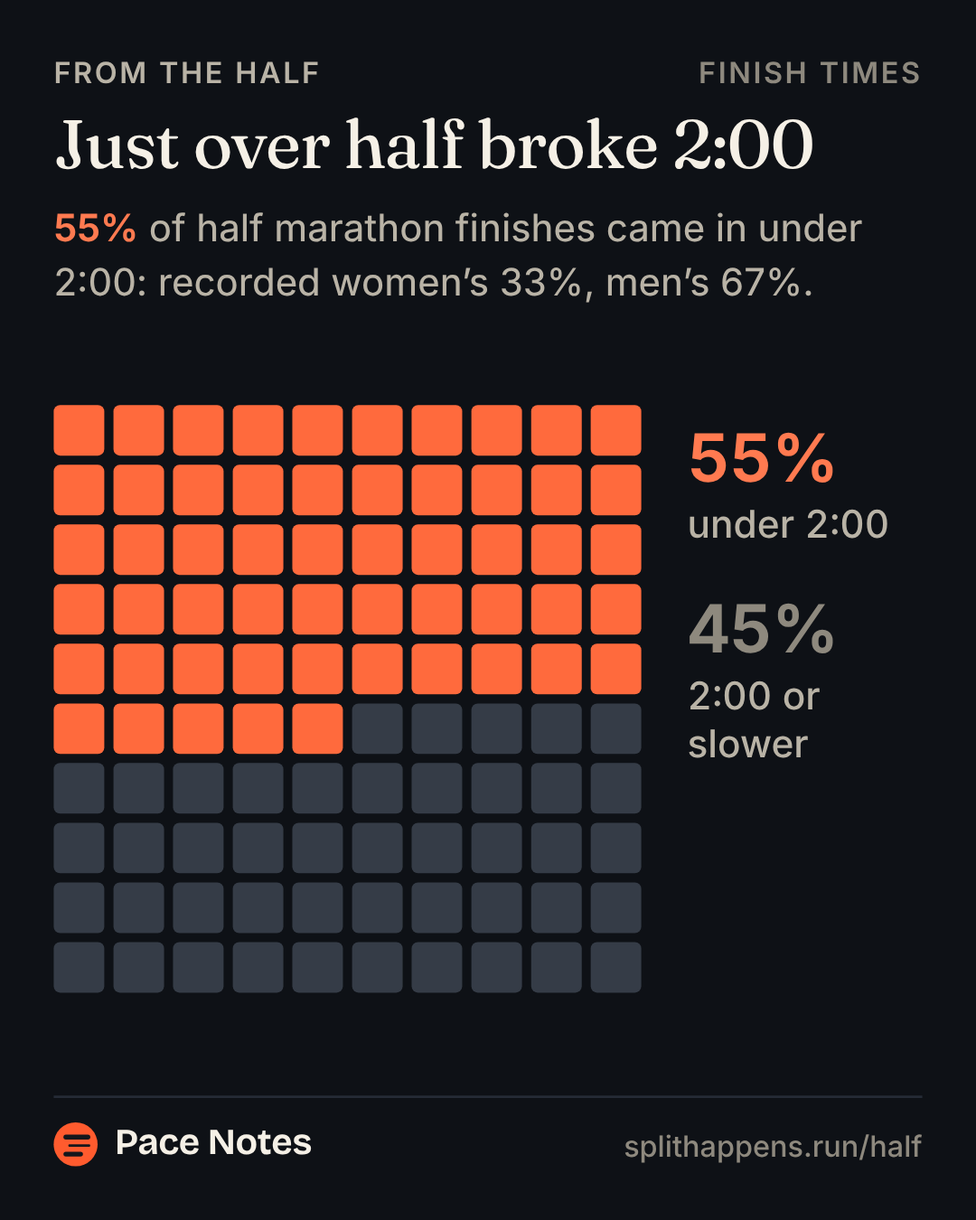
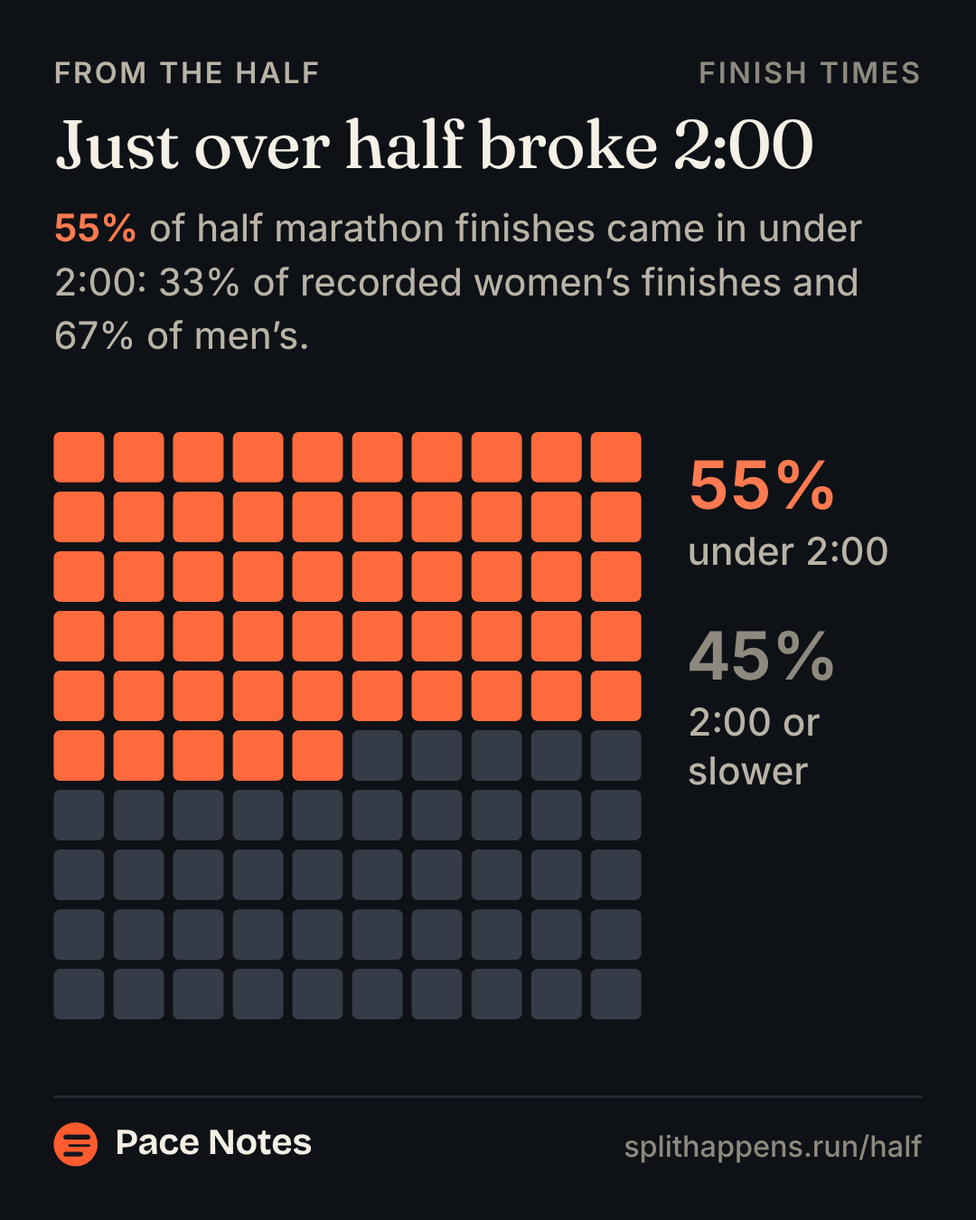
Half follow-ups: shares named by their denominator, a story that orients, a guess that keeps its answer
Post-merge review of the half pages (round 1). No guard, floor or withdrawn reading changes.

- Card half-under-2 and the half pace chart's data panel name each sex's
  denominator ("33% of recorded women's finishes and 67% of men's"): after
  the colon, "recorded women's 33%, men's 67%" read as a split of the
  finishes under 2:00 (women's share of those is 22%). Card re-stamped.
- docs/HALF_MARATHON.md: dated repository state (merged as a2c6e507, #85)
  and deployed state (live; /version.json, smoke 212/212, seo live 21/21),
  the old text kept as history.
- Story hero dek, built from set B's window: "Each half here is paired with
  the marathon 3 to 16 weeks after it, for records linked by name. Find
  your half below." It states no reading, so it stands under the plain H1.
- Story guess: while the guess is up, its H2 is half.sexes's neutral line
  and the reading follows the guess's answer in the reveal; a figure-free
  line links /half.
- Needle deks name the step ("Slide from 1:15 to 3:00, 5 minutes at a
  time."; "Slide from a 1:10 half to a 2:45 half, 5 minutes at a time.").
- /half round times: the dek says why 2:00 (the most extra finishes before
  any round time) and that 1:30 stood a little taller, 1.24x.
- /half same city, under its fallback: no Typical row and no "typically"
  in the dumbbell's label (the two medians the dek had withdrawn).
- /half night card kicker "Chapter 11 · The next one"; the predictor's
[…]

diff --git a/lib/nuggets/half.ts b/lib/nuggets/half.ts
@@ -241,12 +241,22 @@ export function halfSexesGuessFrom(linked: HalfLinked): Nugget {
 export type HalfDeks = {
   /** /half reading's unit line: "the median half finish; recorded women’s 2:08, men’s 1:52". */
   fieldUnit: string;
-  /** /half beat 1: "Recorded women’s: 9%. Men’s: 35%. Slide to any time from 1:15 to 3:00." */
+  /**
+   * /half beat 1's dek, how to use the needle: "Slide from 1:15 to 3:00, 5 minutes at a time." The needle stops on the
+   * published marks only, so the dek names their step ("Slide to any time" promised a 1:52 the needle cannot reach;
+   * review, October 30, 2026).
+   */
+  slide: string;
+  /** /half beat 1 with the shares: "Recorded women’s: 9%. Men’s: 35%. Slide from 1:15 to 3:00, 5 minutes at a time." */
   under: string;
   /**
-   * /half beat 2: the minute before 2:00 in finishes against the curve ("16,949 finishes came in at 1:59, where the
-   * smooth curve expects about 14,000."), then, while its guard holds, the other marks ("The minute before 1:30 held
-   * 1.2× too; before 1:45, 2:15 and 2:30, about 1.05×."). Null without a 2:00 mark.
+   * /half beat 2: the minute before 2:00 in finishes against the curve, and, while it holds the most finishes over the
+   * curve of the five, that it does, so the beat says why 2:00 is its subject ("16,949 finishes came in at 1:59, where
+   * the smooth curve expects about 14,000: the most extra finishes before any round time."); then, while its
+   * guard holds, the other marks. Where 1:30's column stands taller than 2:00's the dek says so with both decimals, as
+   * the columns print them ("The minute before 1:30 stood a little taller against its curve, 1.24×; …"), else "held
+   * 1.2× too" (review, October 30, 2026: since the stamp correction 1:30 is the taller column, unexplained). Null
+   * without a 2:00 mark.
    */
   crowd: string | null;
   /** The marks beat 2's dek names besides 2:00, in minutes ([90] while its guard holds): the chart draws them a step up. */
@@ -266,10 +276,18 @@ export type HalfDeks = {
   cities: string | null;
   /**
    * Story beat 1, the spec's dek: the typical marathon after the flagship's half, then how to use the needle ("The
-   * typical one took 3:54. Slide to any half from 1:10 to 2:45."): the sentence a runner of that half wants first. Under
-   * the plain heading (half.range fails) "the typical one" names no half, so the dek is how to use the needle alone.
+   * typical one took 3:54. Slide from a 1:10 half to a 2:45 half, 5 minutes at a time."): the sentence a runner of that
+   * half wants first. Under the plain heading (half.range fails) "the typical one" names no half, so the dek is how to
+   * use the needle alone. The needle stops on the 5-minute windows only, so the dek names the step.
    */
   range: string | null;
+  /**
+   * The story's hero dek, under any H1: what the page pairs and for whom, then where to look, as a sentence that states
+   * no reading ("Each half here is paired with the marathon 3 to 16 weeks after it, for records linked by name. Find
+   * your half below."). The weeks are set B's window. Under the plain H1 the old verbless dek, written to qualify the
+   * reading H1, told a first-time reader nothing (review, October 30, 2026).
+   */
+  hero: string;
   /**
    * The story's reading, under the ruler: the minutes over double 15 minutes quicker than the flagship's half, then the
    * span of the 5-minute windows from 15 minutes slower on ("Fewer minutes over double after a quicker half: +17 after
@@ -311,17 +329,34 @@ export function halfDeksFrom(field: HalfField, women: HalfWomen, linked: HalfLin
   const after = slower.map(minutesOver);
   const spanLo = Math.min(...after), spanHi = Math.max(...after);
   const level = !!qb && after.length >= 3 && after.every((x) => Math.abs(x - minutesOver(qb)) <= 4) && !!qa && minutesOver(qa) < spanLo;
-  const slide = `Slide to any half from ${clock(all[0].h)} to ${clock(all[all.length - 1].h)}.`;
+  // The needle's stops: the story's 5-minute windows (the scrubber's points), /half's published marks.
+  const stops = all.filter((x) => x.h % 300 === 0);
+  const slide = stops.length ? `Slide from a ${clock(stops[0].h)} half to a ${clock(stops[stops.length - 1].h)} half, 5 minutes at a time.` : '';
+  const step = field.under.length > 1 ? (field.under[1].s - field.under[0].s) / 60 : NaN;
+  const fieldSlide = `Slide from ${clock(first)} to ${clock(last)}, ${step} minutes at a time.`;
   const pairs = side.map((h) => [at('F', h), at('M', h)] as const);
   const lower = pairs.length === 2 && pairs.every(([pf, pm]) => !!pf && !!pm && pf.sus < pm.sus);
+  // Beat 2: whether 2:00 holds the most finishes over the curve of the five marks, and whether 1:30's column, as the
+  // chart prints it, stands taller than 2:00's.
+  const excess = (m: HalfField['marks'][number]) => m.minute_before - m.expected_minute_before;
+  const most = !!two && field.marks.every((m) => m === two || excess(m) < excess(two));
+  const taller = !!two && !!marks[90] && Number(marks[90].ratio.toFixed(2)) > Number(two.ratio.toFixed(2));
+  const [fromWeeks, toWeeks] = linked.set.window_days.map((d) => d / 7);
+  const span = Number.isInteger(fromWeeks) && Number.isInteger(toWeeks) ? `${fromWeeks} to ${toWeeks} weeks` : `${linked.set.window_days[0]} to ${linked.set.window_days[1]} days`;
   return {
     fieldUnit: `the median half finish; recorded women’s ${clock(field.quantiles.F.p50)}, men’s ${clock(field.quantiles.M.p50)}`,
-    under: `Recorded women’s: ${pct(u.F)}. Men’s: ${pct(u.M)}. Slide to any time from ${clock(first)} to ${clock(last)}.`,
-    crowd: two ? `${count(two.minute_before)} finishes came in at ${clock(two.minutes * 60 - 60)}, where the smooth curve expects about ${count(Math.round(two.expected_minute_before / 100) * 100)}.${crowdOk ? ` The minute before 1:30 held ${ratio(marks[90].ratio, 1)} too; before 1:45, 2:15 and 2:30, about ${ratio(median(others), 2)}.` : ''}` : null,
+    slide: fieldSlide,
+    under: `Recorded women’s: ${pct(u.F)}. Men’s: ${pct(u.M)}. ${fieldSlide}`,
+    crowd: two ? `${count(two.minute_before)} finishes came in at ${clock(two.minutes * 60 - 60)}, where the smooth curve expects about ${count(Math.round(two.expected_minute_before / 100) * 100)}${most ? ': the most extra finishes before any round time' : ''}.${crowdOk
+      ? (taller
+        ? ` The minute before 1:30 stood a little taller against its curve, ${ratio(marks[90].ratio, 2)}; before 1:45, 2:15 and 2:30, about ${ratio(median(others), 2)}.`
+        : ` The minute before 1:30 held ${ratio(marks[90].ratio, 1)} too; before 1:45, 2:15 and 2:30, about ${ratio(median(others), 2)}.`)
+      : ''}` : null,
     crowdNamed: crowdOk ? [90] : [],
     women: halfWomenFrom(women).guard ? `Under 1:30, ${pct(women.median_share[0])} were. In the marathon, women’s finishes are the majority only from ${clock(women.marathon.cross_s)}.` : null,
     cities: halfCitiesFrom(women).guard ? `Women’s share of finishes was typically ${pct(s.half_median)} in the half and ${pct(s.marathon_median)} in the marathon.` : null,
-    range: w ? (halfRangeFrom(linked).guard ? `The typical one took ${clock(w.q[9])}. ${slide}` : slide) : null,
+    range: w && slide ? (halfRangeFrom(linked).guard ? `The typical one took ${clock(w.q[9])}. ${slide}` : slide) : null,
+    hero: `Each half here is paired with the marathon ${span} after it, for records linked by name. Find your half below.`,
     scale: qa && qb && minutesOver(qa) < minutesOver(qb)
       ? `Fewer minutes over double after a quicker half: +${minutesOver(qa)} after a ${clock(qa.h)} half, ${level
         ? `${spanLo === spanHi ? `+${spanLo}` : `+${spanLo} to +${spanHi}`} from ${clock(qb.h)} to\u00a0${clock(slower[slower.length - 1].h)}`

diff --git a/components/story/bodies/HalfToFullBody.tsx b/components/story/bodies/HalfToFullBody.tsx
@@ -15,7 +15,8 @@ import GuessFirst from '@/components/ui/GuessFirst.client';
 import Values from '@/components/ui/Values';
 import PredictorLink from '@/components/half/PredictorLink.client';
 import { SaveImage } from '@/components/half/HalfCharts';
-import { Beat, Say, StoryHero, StoryPage, rich } from '../StoryPage';
+import { HalfWay } from '@/components/half/HalfWays';
+import { Beat, Say, SayText, StoryHero, StoryPage, rich } from '../StoryPage';
 
 const PATH = '/stories/half-to-full';
 /** The flagship's half (1:45, the band nearest the pooled median half) and the readout's other detents, seconds. */
@@ -41,7 +42,8 @@ const plus = (s: number) => `${s >= 0 ? '+' : '−'}${Math.round(Math.abs(s) / 6
  * The reading (the typical marathon took double the half plus 21 minutes; only 8% came in under double; a ruler of the
  * minutes over double), then two beats: the marathons after each half time (a profile with a needle, the typical
  * marathon and the middle 80%, the share under the nearest round time, and the link into the predictor at the scrubbed
- * half), and women and men after the same half (the page's one guess). One All numbers fold at the foot.
+ * half), and women and men after the same half (the page's one guess, under a heading that does not give its answer
+ * away; the reading comes with the reveal), then the way to /half. One All numbers fold at the foot.
  */
 export default function HalfToFullBody() {
   const story = STORIES.find((s) => s.slug === 'half-to-full')!;
@@ -148,6 +150,7 @@ export default function HalfToFullBody() {
   const both = F.filter((f) => f.h % BAND_S === 0 && Mw.some((m) => m.h === f.h)).map((f) => ({ h: f.h, f, m: Mw.find((m) => m.h === f.h)! }));
   const hasGuess = guess.guard && deks.guess !== null;
   const women = F.find((w) => w.h === guess.values.h), men = Mw.find((w) => w.h === guess.values.h);
+  const showGuess = hasGuess && !!women && !!men;
 
   return (
     <StoryPage path={PATH} halfScope="linked" numbers={[
@@ -171,7 +174,9 @@ export default function HalfToFullBody() {
         reading={both.findIndex((b) => b.h === guess.values.h)} />,
     ]}>
       <StoryHero path={PATH} title={story.heading ?? story.title} stacked fallback={!extra.guard}
-        dek={<>{rich('Halves and marathons of records linked by name, the half 3 to 16 weeks before.', { linked: true })} <ScopeTag /></>}
+        // The dek says what the page pairs and where to look, and states no reading, so it reads the same under the
+        // plain H1 (review, October 30, 2026: the old verbless dek was written to qualify the reading H1).
+        dek={<>{rich(deks.hero, { linked: true })} <ScopeTag /></>}
         figure={figure ? { value: figure.value, unit: figure.unit, sr: figure.sr } : undefined} unitLine={figure ? extra.key : undefined}
         instrument={extra.guard ? ruler : undefined} />
 
@@ -180,20 +185,26 @@ export default function HalfToFullBody() {
         <SaveImage slug="half-double" />
       </Beat>
 
-      <Beat id="women-men" track="chapter-2" label="Women and men" title={<Say nugget={sexes} term />}>
-        {hasGuess && women && men ? (
+      {/* With the guess, the heading is the beat's neutral line and the reading comes with the reveal, after the guess's
+          own answer: a heading that says "far fewer" gave the guess away before the reader made it (review, October
+          30, 2026; round numbers puts a teaser over its guess the same way). Without the guess, the heading is the
+          nugget, as every beat's is. */}
+      <Beat id="women-men" track="chapter-2" label="Women and men" title={showGuess ? <SayText text={sexes.fallback} term plain /> : <Say nugget={sexes} term />}>
+        {showGuess ? (
           // The men's 100 stand beside the guess from the start (the question gives them), so the reveal shows the two
           // side by side. The other halves' comparison and the card (which prints the answer) come only after it.
           <GuessFirst marks="dots" unit="of 100" initial={Number(guess.values.men_of_100)}
-            question={deks.guess!} truth={women.sus * 100} truthLabel="had a sustained slowdown" truthName={gridName('Recorded women’s')} compareName={gridName(M)}
-            compare={{ value: men.sus * 100, label: M }} answer={sentenceOf(guess)}
+            question={deks.guess!} truth={women!.sus * 100} truthLabel="had a sustained slowdown" truthName={gridName('Recorded women’s')} compareName={gridName(M)}
+            compare={{ value: men!.sus * 100, label: M }} answer={sexes.guard ? `${sentenceOf(guess)} ${sentenceOf(sexes).replace(/\*/g, '')}` : sentenceOf(guess)}
             after={<>{deks.guessMore ? <p className="half-guess-more">{deks.guessMore}</p> : null}<SaveImage slug="half-same-half" /></>} />
         ) : (
           <Dumbbell rows={both.map(({ h, f, m }) => ({ id: String(h), label: `${floorHM(h)} half`, a: m.sus, b: f.sus, display: `${pct(f.sus)} · ${pct(m.sus)}` }))}
             domain={[0, 0.6]} ticks={[0, 0.2, 0.4, 0.6].map((v) => ({ value: v, label: pct(v) }))} keyLabels={{ a: 'Recorded men’s', b: 'Recorded women’s' }}
             label={`Sustained slowdowns after the same half, recorded women’s and men’s marathons: ${both.map(({ h, f, m }) => `${hm(minutes(h))} ${pct(f.sus)} and ${pct(m.sus)}`).join('; ')}.`} />
         )}
-        {hasGuess && women && men ? null : <SaveImage slug="half-same-half" />}
+        {showGuess ? null : <SaveImage slug="half-same-half" />}
+        {/* The way on to every half finish, not only those linked to a marathon: no figure of its own (spec 3.4). */}
+        <HalfWay className="story-way" lead="Where your half sits among half finishes:">The half marathon</HalfWay>
       </Beat>
     </StoryPage>
   );

diff --git a/components/half/HalfFieldPanel.tsx b/components/half/HalfFieldPanel.tsx
@@ -5,6 +5,7 @@ import { halfManifest } from '@/lib/stories';
 import { EvidenceTag } from '@/components/tools/EvidenceTag';
 import { ShareCurve } from './HalfCharts';
 import Arrow from '@/components/ui/Arrow';
+import ArrowTail from '@/components/ui/ArrowTail';
 import { withEm } from '@/components/ui/withEm';
 import { UnitLink as Link } from '@/components/UnitsProvider';
 
@@ -16,7 +17,7 @@ const READING = 120;
  * The half marathon pace chart's observed panel (Pace Notes data, half finishes in verified results; no scope chip),
  * kept apart from the chart's pace columns, which stay unbadged calculations: the share of half finishes under each
  * time from the first published mark (1:15) to 3:00, five round times named on the curve, the field reading as its sentence with the recorded
- * women's and men's shares under 2:00, and the way to /half. Server-drawn, so the page ships no chart script. Nothing
+ * women's and men's shares under 2:00, the way to /half and to the predictor. Server-drawn, so the page ships no chart script. Nothing
  * shows when the half data is not in this build.
  */
 export default function HalfFieldPanel() {
@@ -33,7 +34,9 @@ export default function HalfFieldPanel() {
   const first = lo;
   const curve = [{ x: lo, y: tail / field.cohort.finishes }, ...under.map((u) => ({ x: u.s / 60, y: u.all }))];
   const said = sentenceOf(reading);
-  const sentence = reading.guard && two ? `${said.replace(/\.$/, '')}: recorded women’s ${pct(two.F)}, men’s ${pct(two.M)}.` : said;
+  // Each sex's own share under 2:00, named as one: "recorded women’s 33%, men’s 67%" after the colon read as a split of
+  // the finishes under 2:00, the two adding up to 100 (review, October 30, 2026).
+  const sentence = reading.guard && two ? `${said.replace(/\.$/, '')}: ${pct(two.F)} of recorded women’s finishes and ${pct(two.M)} of men’s.` : said;
   const marks = MARKS.map((m) => at(m)).filter((u): u is NonNullable<typeof u> => !!u);
   return (
     <section className="tool-panel half-field" id="half-field" data-half-scope="verified" aria-labelledby="half-field-title">
@@ -45,14 +48,20 @@ export default function HalfFieldPanel() {
         marks={marks.map((u) => ({ x: u.s / 60, y: u.all, text: pct(u.all), signal: u.s === READING * 60 }))}
         // Every 15 minutes from 1:15 to the scale's end (3:00), the half hours first and the quarters showing and hiding
         // together, so the steps stay even at every width (a lone gap from 2:30 to 3:00 read as a broken scale). The
-        // quarters come before the end's 3:00, which shows only where it fits beside 2:45: on a phone every round time
-        // the curve names keeps its time under it (1:45 and 2:15 had none below desktop, so their 26% and 79% read
-        // against no time; round 4 review, October 30, 2026), and the plot runs on past 2:45 to the curve's end.
+        // quarters come before the end's 3:00, which shows where it fits beside 2:45: on a phone every round time the
+        // curve names keeps its time under it (1:45 and 2:15 had none below desktop, so their 26% and 79% read against
+        // no time; round 4 review, October 30, 2026). The ticks keep 4 px between labels rather than 6, so 3:00 fits
+        // beside 2:45 from a 320 px plot (a 390 px phone; the 6 px rule hid it below 360 px, so the curve ran on
+        // unlabelled past 2:45; review, October 30, 2026); the generous width estimate leaves about 7 px on screen.
+        tickGap={4}
         xTicks={Array.from({ length: Math.floor((last - 75) / 15) + 1 }, (_, i) => 75 + i * 15).filter((m) => m >= first && m <= last)
           .map((m) => ({ value: m, label: hm(m), priority: m === READING ? 4 : m === last ? 0.5 : m % 30 === 0 ? 3 : 2, group: m % 30 === 0 ? undefined : 'quarters' }))}
         yTicks={[0.25, 0.5, 0.75].map((v) => ({ value: v, label: pct(v) }))}
         label={`The share of half marathon finishes under each time from ${hm(under[0].s / 60)} to ${hm(last)}: ${marks.map((u) => `${pct(u.all)} under ${hm(u.s / 60)}`).join(', ')}.`} />
       <p className="half-field-more"><Link href="/half">The half marathon<Arrow /></Link></p>
+      {/* The question a half runner who lands here asks next, one hop away (review, October 30, 2026: it took two). The
+          tool carries its own badge and chip; this line has no figure. */}
+      <p className="half-field-next arrow-line">The marathon after a half? <Link href="/tools/predictor?d=half"><ArrowTail text="Finish-time predictor" /></Link></p>
     </section>
   );
 }

diff --git a/components/half/HalfBody.tsx b/components/half/HalfBody.tsx
@@ -98,9 +98,10 @@ export default function HalfBody() {
           </>
         )} />
 
-      {/* The dek says how to use the chart: the recorded women's and men's shares are the readout's own side rows, so
-          the dek's version of them (deks.under) would put the same two numbers twice on one screen. */}
-      <Beat id="your-time" track="chapter-1" label="Your time" title={under} dek={`Slide to any time from ${hm(first)} to ${hm(last)}.`}>
+      {/* The dek says how to use the chart, step included (the needle stops on the published marks only): the recorded
+          women's and men's shares are the readout's own side rows, so the dek's version of them (deks.under) would put
+          the same two numbers twice on one screen. */}
+      <Beat id="your-time" track="chapter-1" label="Your time" title={under} dek={deks.slide}>
         {/* Ticks every 15 minutes to the scale's end (3:00, turned to end at the plot's edge, so the last stop has its
             time), the half hours first: the quarters show and hide together (a tick group), so where 2:45 would touch
             3:00 a phone keeps 1:30, 2:00, 2:30 and 3:00 evenly, and a wider screen adds every quarter. */}
@@ -133,17 +134,20 @@ export default function HalfBody() {
       ) : null}
 
       <Beat id="two-distances" track="chapter-4" label="Two distances" title={cities} dek={deks.cities ?? undefined}>
-        {/* The key first, in the order every row prints its pair (marathon · half), then the two typical shares (the
-            dek's two medians across the pairs, worded as two) as the one signal row, as the share card draws it, then
-            each city. While the beat's heading falls back (too few pairs or cities for a direction, October 30, 2026)
-            the typical row is drawn quiet like the cities, as the women's columns are. A value column sized to its pairs, and none on a zoomed-in screen (half.css). */}
+        {/* The key first, in the order every row prints its pair (marathon · half), then, while the beat's heading holds,
+            the two typical shares (the dek's two medians across the pairs, worded as two) as the one signal row, as the
+            share card draws it, then each city. While the heading falls back (too few pairs or cities for a direction,
+            October 30, 2026) the typical row and its "typically" in the label are left out with the dek: two medians
+            side by side state the direction the heading withdrew (review, October 30, 2026: the row and the label
+            still did). The cities stay, as a chart keeps its values. A value column sized to its pairs, and none on a
+            zoomed-in screen (half.css). */}
         <div className="half-cities">
           <Dumbbell keyFirst rows={[
-            { id: 'typical', label: 'Typical', a: sc.summary.marathon_median, b: sc.summary.half_median, display: `${pct(sc.summary.marathon_median)} · ${pct(sc.summary.half_median)}`, highlight: cities.guard },
+            ...(cities.guard ? [{ id: 'typical', label: 'Typical', a: sc.summary.marathon_median, b: sc.summary.half_median, display: `${pct(sc.summary.marathon_median)} · ${pct(sc.summary.half_median)}`, highlight: true }] : []),
             ...sc.cities.map((c) => ({ id: c.city, label: c.city, a: c.marathon, b: c.half, display: `${pct(c.marathon)} · ${pct(c.half)}` })),
           ]}
             domain={[0, 0.6]} ticks={[0, 0.6].map((v) => ({ value: v, label: pct(v) }))} keyLabels={{ a: 'Marathon', b: 'Half' }}
-            label={`Women’s share of recorded finishes in the same city and year, marathon then half: typically ${pct(sc.summary.marathon_median)} and ${pct(sc.summary.half_median)}; ${sc.cities.map((c) => `${c.city} ${pct(c.marathon)} and ${pct(c.half)}`).join('; ')}.`} />
+            label={`Women’s share of recorded finishes in the same city and year, marathon then half: ${cities.guard ? `typically ${pct(sc.summary.marathon_median)} and ${pct(sc.summary.half_median)}; ` : ''}${sc.cities.map((c) => `${c.city} ${pct(c.marathon)} and ${pct(c.half)}`).join('; ')}.`} />
         </div>
         <SaveImage slug="half-more-women" />
       </Beat>

diff --git a/components/viz/labels.ts b/components/viz/labels.ts
@@ -195,9 +195,10 @@ export type LaidTick = Tick & { anchor: 'start' | 'middle' | 'end'; minWidth: nu
 /**
  * Axis ticks: each keeps its label clear of higher-priority ticks (the ends and the marks named first) and inside the
  * axis; the anchor turns to start or end near an edge. A tick that cannot fit even at the reference width is dropped
- * (minWidth null); one that stops fitting below it carries its width class.
+ * (minWidth null); one that stops fitting below it carries its width class. `gap` is the clear space kept between two
+ * labels, in px of the generous width estimate (6 by default).
  */
-export function layoutTicks(ticks: Tick[], size = 12, ref = REF_WIDTH, centred = false): LaidTick[] {
+export function layoutTicks(ticks: Tick[], size = 12, ref = REF_WIDTH, centred = false, gap = 6): LaidTick[] {
   // Centred ticks (years under stems, where a label slid off its tick reads as the next year's) never turn at an edge:
   // one that does not fit centred hides below the width it fits.
   const anchorOf = (t: Tick): LaidTick['anchor'] => {
@@ -222,7 +223,7 @@ export function layoutTicks(ticks: Tick[], size = 12, ref = REF_WIDTH, centred =
   const kept: { i: number; t: Tick; anchor: LaidTick['anchor']; min: number | null }[] = [];
   for (const { t, i } of order) {
     const anchor = anchorOf(t);
-    const clash = (fw: number) => { const w = fw * scale; return !inside(box(t, anchor, w), w, size) || kept.some((k) => k.min !== null && k.min <= fw && overlaps(box(t, anchor, w), box(k.t, k.anchor, w), 6)); };
+    const clash = (fw: number) => { const w = fw * scale; return !inside(box(t, anchor, w), w, size) || kept.some((k) => k.min !== null && k.min <= fw && overlaps(box(t, anchor, w), box(k.t, k.anchor, w), gap)); };
     let min: number | null = null;
     for (let s = 0; s < widths.length; s++) {
       if (widths.slice(s).every((w) => !clash(w))) { min = s === 0 ? 0 : widths[s]; break; }

diff --git a/components/half/HalfCharts.tsx b/components/half/HalfCharts.tsx
@@ -214,11 +214,14 @@ export function ShareColumns({ bands, shares, signal, label, format, values }: {
  * LineProfile's single-curve drawing without the needle or the lens: LineProfile imports its two client islands
  * (Scrubber, Lens) wherever it is used, which put 3.6 KB of chart script on a page that runs none (S8, October 30, 2026).
  */
-export function ShareCurve({ curve, xDomain, marks, xTicks, yTicks, label, height = 200, heightMd = 240 }: {
+export function ShareCurve({ curve, xDomain, marks, xTicks, yTicks, label, tickGap, height = 200, heightMd = 240 }: {
   curve: { x: number; y: number }[]; xDomain: [number, number];
   marks: { x: number; y: number; text: string; signal?: boolean }[];
   xTicks: { value: number; label: string; priority?: number; group?: string }[]; yTicks: { value: number; label: string }[];
-  label: string; height?: number; heightMd?: number;
+  label: string;
+  /** The clear space between two tick labels (Axis `gap`). */
+  tickGap?: number;
+  height?: number; heightMd?: number;
 }) {
   const x = linear(xDomain);
   const y = yScale(0, 1, { top: 0.12, bottom: 0 });
@@ -252,7 +255,7 @@ export function ShareCurve({ curve, xDomain, marks, xTicks, yTicks, label, heigh
       </g>
     </Plot>
   );
-  return <ChartFrame label={label} height={height} heightMd={heightMd} plot={plot} axis={<Axis ticks={xTicks.map((t) => ({ x: x(t.value), label: t.label, priority: t.priority, group: t.group }))} />} />;
+  return <ChartFrame label={label} height={height} heightMd={heightMd} plot={plot} axis={<Axis gap={tickGap} ticks={xTicks.map((t) => ({ x: x(t.value), label: t.label, priority: t.priority, group: t.group }))} />} />;
 }
 
 /**

diff --git a/components/half/HalfEnd.tsx b/components/half/HalfEnd.tsx
@@ -2,7 +2,7 @@ import Arrow from '@/components/ui/Arrow';
 import PageFeedback from '@/components/PageFeedback';
 import { UnitLink as Link } from '@/components/UnitsProvider';
 import { ToolHandoffs } from '@/components/tools/Handoffs';
-import { CHAPTERS } from '@/lib/chapters';
+import { CHAPTERS, chapterNumber } from '@/lib/chapters';
 import { settledReadingOf } from '@/lib/nuggets';
 import { STORIES, storyHref, storyPublished } from '@/lib/stories';
 import HalfNext from './HalfNext';
@@ -25,7 +25,10 @@ export default function HalfEnd() {
     <div className="chapter-end half-end" data-track-section="related">
       {story && href && page && storyPublished(story) ? (
         <nav className="chapter-next half-pagination" aria-label="Next page">
-          <HalfNext href={href} kicker={story.title} title={page.short}
+          {/* The kicker names the chapter the story opens and the title is the story's name in the chain, so the card
+              never names one page twice (review, October 30, 2026: the story's title over its chain name read as the
+              same words twice since the H1 fell back to the title). */}
+          <HalfNext href={href} kicker={chapter ? `Chapter ${chapterNumber(chapter)} · ${chapter.title}` : 'Next'} title={page.short}
             reading={reading ? { ...reading, key: reading.key ?? chapter?.key } : null} />
         </nav>
       ) : null}

diff --git a/components/viz/Axis.tsx b/components/viz/Axis.tsx
@@ -7,14 +7,16 @@ import { pc } from './scale';
  * Values). The baseline itself is drawn by the plot, so the axis is only labels and small ticks. `title` puts a word at
  * each end under the ticks ("← faster 5K", "slower 5K →").
  */
-export default function Axis({ ticks, title, refWidth, centred = false }: {
+export default function Axis({ ticks, title, refWidth, centred = false, gap }: {
   ticks: Tick[]; title?: { start?: string; end?: string };
   /** The axis width on the narrowest phone, when it is narrower than its figure (a dumbbell's track column). */
   refWidth?: number;
   /** Every label centred on its tick (years under stems); one that does not fit so hides below the width it fits. */
   centred?: boolean;
+  /** The clear space between two labels (layoutTicks; 6 px of the width estimate by default). */
+  gap?: number;
 }) {
-  const laid = layoutTicks(ticks, 12, refWidth, centred);
+  const laid = layoutTicks(ticks, 12, refWidth, centred, gap);
   return (
     <div className="viz-axis">
       <svg className="viz-axis-svg" width="100%" height="24" aria-hidden="true">

diff --git a/app/styles/components/guess.css b/app/styles/components/guess.css
@@ -13,7 +13,9 @@
 .guess-question { margin: 0; }
 .guess-readout { display: flex; align-items: baseline; justify-content: space-between; gap: var(--s-4); min-height: 40px; }
 .guess-readout-key { font-size: var(--t-label); font-weight: 600; line-height: 1.3; color: var(--ink-3); }
-.guess-readout-value { font-family: var(--sans); font-size: var(--t-readout); font-weight: 600; line-height: 1.05; letter-spacing: -.02em; font-variant-numeric: tabular-nums; color: var(--ink); }
+/* The value and its unit ("30 of 100") never part: at 200% zoom "100" fell to a line of its own (review, October 30,
+   2026); the key beside it wraps instead. */
+.guess-readout-value { font-family: var(--sans); font-size: var(--t-readout); font-weight: 600; line-height: 1.05; letter-spacing: -.02em; font-variant-numeric: tabular-nums; white-space: nowrap; color: var(--ink); }
 .guess-readout-value small { margin-left: 4px; font-size: .5em; font-weight: 500; letter-spacing: 0; color: var(--ink-3); }
 .guess-readout-value small.is-pct { margin-left: 0; }
 

diff --git a/lib/charts/text/half.ts b/lib/charts/text/half.ts
@@ -51,7 +51,10 @@ export const HALF_CARD_TEXT: Record<HalfCardSlug, HalfCardText> = {
       return {
         guard,
         title: 'Just over half broke 2:00',
-        headline: `*${pct(all)}* of half marathon finishes came in under 2:00: recorded women's ${pct(women)}, men's ${pct(men)}.`,
+        // Each sex's own share under 2:00, named as one ("33% of recorded women's finishes"): after the colon, "recorded
+        // women's 33%, men's 67%" read as a split of the finishes under 2:00, and the two add up to 100 (review, October
+        // 30, 2026; women's finishes are 22% of those under 2:00).
+        headline: `*${pct(all)}* of half marathon finishes came in under 2:00: ${pct(women)} of recorded women's finishes and ${pct(men)} of men's.`,
         titleFallback: 'Half marathon finishes and 2:00',
         fallback: 'Half marathon finishes, under 2:00 and 2:00 or slower.',
       };

diff --git a/components/tools/LinkedPanel.tsx b/components/tools/LinkedPanel.tsx
@@ -108,7 +108,9 @@ export default function LinkedPanel({ sha, seconds, group, onGroup }: {
         </div>
       )}
       <p className="predictor-linked-not">{NOT_A_PREDICTION}</p>
-      <p className="predictor-linked-more arrow-line"><Link href="/stories/half-to-full#after"><ArrowTail text="From the half to the marathon" /></Link></p>
+      {/* The story's name in the chain (lib/chapters.ts), as the chapter's back link under this panel names it: one page,
+          one name on the predictor (review, October 30, 2026). */}
+      <p className="predictor-linked-more arrow-line"><Link href="/stories/half-to-full#after"><ArrowTail text="Half marathon to full" /></Link></p>
     </section>
   );
 }

diff --git a/app/styles/pages/tools/pace-charts.css b/app/styles/pages/tools/pace-charts.css
@@ -46,3 +46,5 @@
 /* ---------- The half pace chart's observed panel (components/half/HalfFieldPanel.tsx) ---------- */
 .half-field .viz-frame { max-width: var(--measure-figure); }
 .half-field-more a { display: inline-flex; align-items: center; gap: 6px; min-height: 44px; font-size: var(--t-small); font-weight: 600; color: var(--ink); }
+/* The way on to the predictor: a lead in the panel's quiet ink, then the link (.arrow-line a pads it to 44 px). */
+.half-field-next { margin: 0; font-size: var(--t-small); line-height: 1.5; color: var(--ink-2); }
